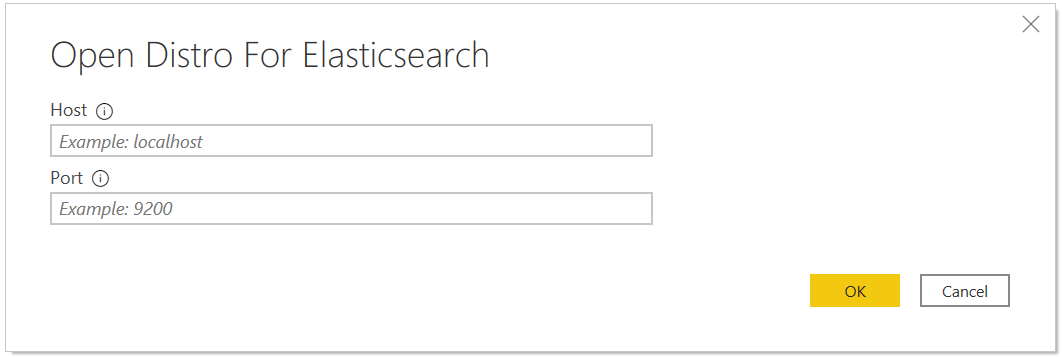
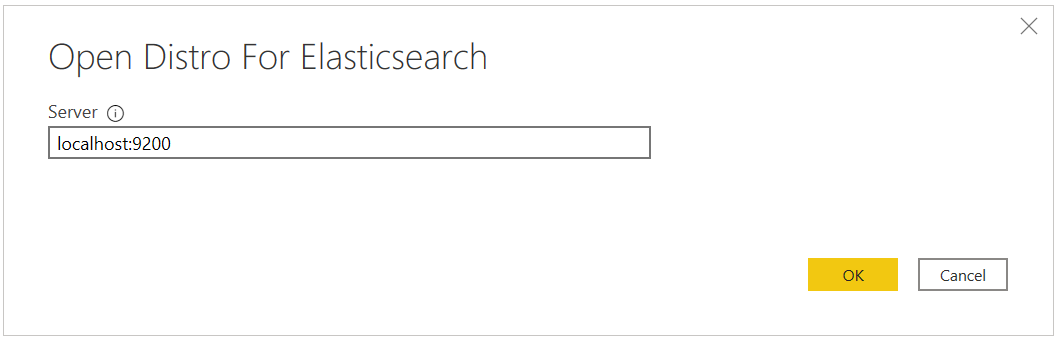
- add server instead of host & port for Power BI Service - update user docs

diff --git a/sql-odbc/docs/user/power_bi_service_support.md b/sql-odbc/docs/user/power_bi_service_support.md
@@ -20,7 +20,18 @@
 
 <img src="img/pbi_service_cluster_setting.png">
 
-* Add data source to use the gateway.
+* Click on **Add data sources to use the gateway**.
+* Select Data Source Type as **Open Distro For Elasticsearch**.
+* Enter Data Source Name and Server values.
+* Select required **Authentication Method**. **Anonymous** refers to auth **NONE** and **Key** refers to auth **AWS_SIGV4**.
+* Select Encryption mode for connection.
+* Click on **Add**.
+
+<img src="img/pbi_service_data_source.png">
+
+* You will get a **Connection Successful** message.
+
+<img src="img/pbi_service_data_source_success.png" width=600>
 
 
 ## Publish Report
@@ -49,3 +60,21 @@
 * Use **Filters**,**Visualizations** and **Fields** to modify report.
 
 <img src="img/pbi_service_modified_report.png">
+
+## Dataset Scheduled Refresh
+
+* Click on **Settings** > **Datasets**.
+* Select required Gateway and click on **Apply**.
+
+<img src="img/pbi_service_dataset_gateway.png" width=500>
+
+* Turn on Keep your data up to date option.
+* Select refresh frequency and timezone.
+* Add email for failure notifications if required.
+* Click on **Apply**.
+
+<img src="img/pbi_service_dataset_refresh.png" width=500>
+
+* You can also check history by clicking on **Refresh history**.
+
+<img src="img/pbi_service_dataset_refresh_history.png" width=500>

diff --git a/sql-odbc/docs/user/power_bi_support.md b/sql-odbc/docs/user/power_bi_support.md
@@ -33,7 +33,7 @@
 
 <img src="img/pbi_third_party_warning.png" width="500">
 
-* Enter host and port values. Click on **OK**.
+* Enter server value. Click on **OK**.
 
 <img src="img/pbi_connection_string_options.png" width="500">
 
